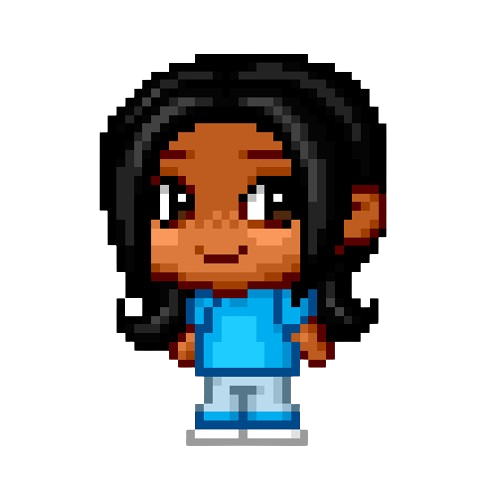
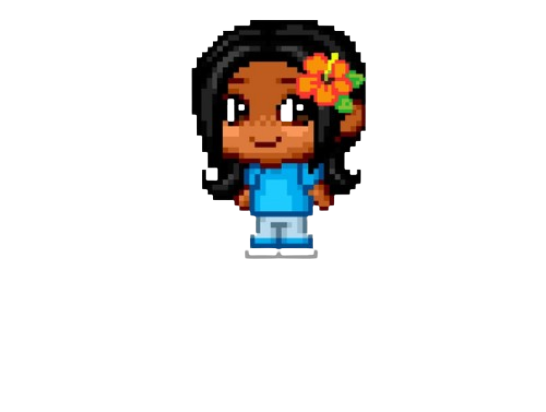
Website Reno - New Aesthetic
logo, footer, questionable color scheme, done nav

diff --git a/index.html b/index.html
@@ -5,51 +5,45 @@
     <meta charset="UTF-8">
     <meta http-equiv="X-UA-Compatible" content="IE=edge">
     <meta name="viewport" content="width=device-width, initial-scale=1.0">
-    <title>About Me</title>
+    <title>Home</title>
     <link rel="stylesheet" href="css/styles.css">
-    <link rel="preconnect" href="https://fonts.googleapis.com">
-    <link rel="preconnect" href="https://fonts.gstatic.com" crossorigin>
-    <link
-        href="https://fonts.googleapis.com/css2?family=Abril+Fatface&family=Playfair+Display:ital,wght@0,400..900;1,400..900&family=Shrikhand&display=swap"
-        rel="stylesheet">
 
-    <link rel="preconnect" href="https://fonts.googleapis.com">
-    <link rel="preconnect" href="https://fonts.gstatic.com" crossorigin>
-    <link
-        href="https://fonts.googleapis.com/css2?family=Abril+Fatface&family=Playfair+Display:ital,wght@0,400..900;1,400..900&family=Shrikhand&display=swap"
-        rel="stylesheet">
+
+<link rel="preconnect" href="https://fonts.googleapis.com">
+<link rel="preconnect" href="https://fonts.gstatic.com" crossorigin>
+<link href="https://fonts.googleapis.com/css2?family=Poppins:ital,wght@0,100;0,200;0,300;0,400;0,500;0,600;0,700;0,800;0,900;1,100;1,200;1,300;1,400;1,500;1,600;1,700;1,800;1,900&family=Roboto:ital,wght@0,100;0,300;0,400;0,500;0,700;0,900;1,100;1,300;1,400;1,500;1,700;1,900&family=Rubik:ital,wght@0,300..900;1,300..900&family=Zen+Dots&display=swap" rel="stylesheet">
 </head>
 
 <body>
 
-    <nav>
-        <ul id="links">
-            <li><a href="index.html">Home</a></li>
-            <li><a href="projects.html">My Projects</a></li>
-            <li><a href="taekwondo.html">My Taekwondo Life</a></li>
-        </ul>
-    </nav>
-    
-    <svg viewBox="0 0 200 200" xmlns="http://www.w3.org/2000/svg" id="navSVG">
-        <path fill="#9b87e1" d="M22.7,-31.1C35.1,-32.2,54.7,-37.5,59.5,-33C64.4,-28.6,54.5,-14.3,56.4,1.1C58.4,16.5,72.2,33.1,67.9,38.5C63.6,44,41.2,38.3,26.9,34.3C12.6,30.2,6.3,27.7,-0.5,28.7C-7.4,29.6,-14.7,34,-27.1,36.9C-39.4,39.8,-56.7,41.3,-61.7,34.9C-66.6,28.5,-59.2,14.3,-51,4.7C-42.9,-4.9,-34.1,-9.8,-29.8,-17.2C-25.5,-24.7,-25.7,-34.8,-21.5,-38.4C-17.3,-42.1,-8.6,-39.3,-1.7,-36.3C5.2,-33.3,10.3,-30.1,22.7,-31.1Z" transform="translate(100 100)" />
-      </svg>
+    <header>
+        <img src="images/logoFr.png" alt="My logo" id="logo">
+        <nav>
+            <a href="index.html">Home</a>
+            <a href="aboutMe.html">About Me</a>
+            <a href="projects.html">My Projects</a>
+            <a href="taekwondo.html">My Taekwondo Life</a>
+        </nav>
+    </header>
 
+    <main>
+        <img src="images/beach.jpg" alt="" id="hero">
+        <div id="intro">
+            <h1>Hello!</h1>
+            <h1>I'm Keerthana.</h1>
+            <p>Welcome to my website! Look around to learn a little about me.</p>
+        </div>
+       
+    </main>
 
-
-    <div>
-
-        <div>
-            <h1 id="welcome">Welcome!</h1>
-            <svg viewBox="0 0 200 200" xmlns="http://www.w3.org/2000/svg" id="heroSVG">
-                <path fill="#9b87e1"
-                    d="M23.6,-45.2C27.5,-38.6,25.5,-26.1,33.7,-17.5C42,-9,60.6,-4.5,69.9,5.4C79.2,15.3,79.2,30.5,71.1,39.2C62.9,47.9,46.5,49.9,33.2,50.9C20,51.9,10,51.8,-0.8,53.3C-11.7,54.7,-23.4,57.8,-35.2,55.9C-47,54.1,-58.9,47.5,-60.6,37.4C-62.4,27.2,-54,13.6,-54,0C-53.9,-13.5,-62.1,-27.1,-60,-36.6C-57.9,-46.2,-45.6,-51.9,-33.9,-54.1C-22.1,-56.2,-11.1,-54.9,-0.6,-53.9C9.8,-52.8,19.7,-51.9,23.6,-45.2Z"
-                    transform="translate(100 100)" />
-            </svg>
+    <footer>
+        <p>Contact Me!</p>
+        <div id="signature">
+            <p>&copy; Keerthana K</p>
+            <img src="images/miniMe.png" alt="" id="avatar">
         </div>
 
-    </div>
-
-
+    </footer>
 </body>
 
 </html>

diff --git a/aboutMe.html b/aboutMe.html
@@ -7,40 +7,40 @@
     <meta name="viewport" content="width=device-width, initial-scale=1.0">
     <title>About Me</title>
     <link rel="stylesheet" href="css/styles.css">
-    <link rel="preconnect" href="https://fonts.googleapis.com">
-    <link rel="preconnect" href="https://fonts.gstatic.com" crossorigin>
-    <link href="https://fonts.googleapis.com/css2?family=Abril+Fatface&family=Playfair+Display:ital,wght@0,400..900;1,400..900&family=Shrikhand&display=swap" rel="stylesheet">
 
     <link rel="preconnect" href="https://fonts.googleapis.com">
     <link rel="preconnect" href="https://fonts.gstatic.com" crossorigin>
-    <link href="https://fonts.googleapis.com/css2?family=Abril+Fatface&family=Playfair+Display:ital,wght@0,400..900;1,400..900&family=Shrikhand&display=swap" rel="stylesheet">
+    <link href="https://fonts.googleapis.com/css2?family=Poppins:ital,wght@0,100;0,200;0,300;0,400;0,500;0,600;0,700;0,800;0,900;1,100;1,200;1,300;1,400;1,500;1,600;1,700;1,800;1,900&family=Roboto:ital,wght@0,100;0,300;0,400;0,500;0,700;0,900;1,100;1,300;1,400;1,500;1,700;1,900&family=Rubik:ital,wght@0,300..900;1,300..900&family=Zen+Dots&display=swap" rel="stylesheet">
 </head>
 
 <body>
 
-    <nav>
-        <ul id="links">
-            <li><a href="index.html">Home</a></li>
-            <li><a href="projects.html">My Projects</a></li>
-            <li><a href="taekwondo.html">My Taekwondo Life</a></li>
-        </ul>
-    </nav>
+    <header>
+        <img src="images/logoFr.png" alt="My logo" id="logo">
+        <nav>
+            <a href="index.html">Home</a>
+            <a href="aboutMe.html">About Me</a>
+            <a href="projects.html">My Projects</a>
+            <a href="taekwondo.html">My Taekwondo Life</a>
+        </nav>
+    </header>
 
-    <svg viewBox="0 0 200 200" xmlns="http://www.w3.org/2000/svg" id="navSVG">
-        <path fill="#DF9AE4" d="M22.7,-31.1C35.1,-32.2,54.7,-37.5,59.5,-33C64.4,-28.6,54.5,-14.3,56.4,1.1C58.4,16.5,72.2,33.1,67.9,38.5C63.6,44,41.2,38.3,26.9,34.3C12.6,30.2,6.3,27.7,-0.5,28.7C-7.4,29.6,-14.7,34,-27.1,36.9C-39.4,39.8,-56.7,41.3,-61.7,34.9C-66.6,28.5,-59.2,14.3,-51,4.7C-42.9,-4.9,-34.1,-9.8,-29.8,-17.2C-25.5,-24.7,-25.7,-34.8,-21.5,-38.4C-17.3,-42.1,-8.6,-39.3,-1.7,-36.3C5.2,-33.3,10.3,-30.1,22.7,-31.1Z" transform="translate(100 100)" />
-      </svg>
-
-    
-    <div class="main">
-        
-        <div class="intro">
+    <main>
+        <img src="images/flower.png" alt="" id="flower">
+        <div id="intro">
             <h1>about me:</h1>
-            <p>Hello! My name is Keerthana and I am a rising junior with a strong passion for computer science and biology. I look forward to combining my passions by going into the field of Computational Biology.</p>
-            <p>In my free time, I am also an avid Bharatanatyam dancer and Taekwondo martial artist. I also enjoy reading and spending time with my family and friends. Currently, I am reading Emma by Jane Austen. Y</p>
+            <p>Hello! My name is Keerthana and I am a rising junior with a strong passion for Computer Science and Biology. I look forward to combining my passions by going into the field of Computational Biology.</p>
+            <p>In my free time, I am also an avid Bharatanatyam dancer and Taekwondo martial artist. I also enjoy reading and spending time with my family and friends. Currently, I am reading Emma by Jane Austen. </p>
         </div>
-        
-    </div>
-
+    </main>
+        <footer>
+            <p>Contact Me!</p>
+            <div id="signature">
+                <p>&copy; Keerthana K</p>
+                <img src="images/miniMe.png" alt="" id="avatar">
+            </div>
+    
+        </footer>
     
 </body>
 

diff --git a/css/styles.css b/css/styles.css
@@ -1,86 +1,92 @@
 /* All pages styles */
 
 body {
-    background-color: #b2a5e3;
+    background-color: #fffad7;
+    font-family: "Poppins";
 }
 
 h1{
-    font-family: "Shrikhand", serif;
+    font-family:"Rubik";
 }
 
 header{
     display: flex;
     flex-direction: row;
 }
+
+/* Nav Bar Styles */
+header{
+    background-color: #fff8c2;
+    display:flex;
+    flex-direction: row;
+}
+#logo{
+    width: 10%;
+    float: left;
+    margin-left: 2%;
+}
+
 nav {
-
-    position: absolute;
-    left: 62%;
-    z-index: 10; 
-    padding: 10px;
-    width: 30%;
+    display:flex;
+    flex-direction: row;
+    justify-content: flex-end;
+    align-items: center;
+    width: 100%;
+    vertical-align: center;
 }
 
-nav ul {
+nav a {
     list-style: none;
-    margin: 0;
-    padding: 0;
     display: flex;
-}
-
-nav li{
-    padding-right: 0;
-    padding-left: 0;
-    margin-right: 6%;
-    margin-left: 6%;
-    margin-top: 3%;
-    padding: 2%;
-    font-family: "Abril Fatface";
-
+    font-family: "Roboto";
+    border-radius: 20%;
+    padding: 3%;
+    font-family: "Poppins";
+    font-weight:bolder;
+    color: black;
+    font-size: 20px;
 }
 
 
-#navSVG {
-    position: absolute;
-    height: 100%;
-    left: 53%;
-    bottom: 50%;
-    display: block;
-    filter: drop-shadow(10px 10px 5px #4b176e80);
-    z-index: 1;
+/* Footer Styles */
 
+footer{
+    padding-top: 1%;
+    font-size: 20px;
+    background-color: #f4b87f;
+    text-align: center;
 }
 
+
+#avatar{
+    width: 10%;
+}
 /* Home Page styles */
-#heroSVG{
-    padding: 0;
-    margin: 0;
-    width: 55%;
-    top: 2%;
-    position: absolute;
-}
 
 #hero{
-    display: flex;
-    flex-direction: row;
-    width: 30%;
+    width: 1000px;
+    float: left;
+    height: 500px ;
+    margin-bottom: 10px;
+    display: block;
+    padding-right: 30px;
 }
-#welcome{
-    position: absolute;
-    top: 50%;
-    right: 63%;
-    z-index: 1;
-    font-size: 80px;
+
+#intro{
+    margin-top: 10%;
+}
+main{
+    padding: 20px;
+    overflow: hidden;
+    padding: 5%;
 }
 
 /* About Me Page styles */
+#flower{
 
-.main{
-    position: relative;
-    padding:5%;
-    margin-top: 15%;
-}
-.intro{
-    padding-top: 8%;
-
+    float: left;
+    height: 500px ;
+    margin-bottom: 10px;
+    display: block;
+    padding-right: 30px;
 }

diff --git a/projects.html b/projects.html
@@ -5,16 +5,34 @@
     <meta name="viewport" content="width=device-width, initial-scale=1.0">
     <title>My Projects</title>
     <link rel="stylesheet" href="css/styles.css">
-</head>
-<body>
-    <h1>My Projects</h1>
-    <nav>
-        <ul>
-            <li><a href="taekwondo.html">Taekwondo</a></li>
-            <li><a>Play a Fun Game!</a></li>
-            <li><a href="projects.html">Projects</a></li>
-            <li><a href="index.html">Home</a></li>
-        </ul>
-    </nav>
+    <link rel="preconnect" href="https://fonts.googleapis.com">
+    <link rel="preconnect" href="https://fonts.gstatic.com" crossorigin>
+    <link href="https://fonts.googleapis.com/css2?family=Poppins:ital,wght@0,100;0,200;0,300;0,400;0,500;0,600;0,700;0,800;0,900;1,100;1,200;1,300;1,400;1,500;1,600;1,700;1,800;1,900&family=Roboto:ital,wght@0,100;0,300;0,400;0,500;0,700;0,900;1,100;1,300;1,400;1,500;1,700;1,900&family=Rubik:ital,wght@0,300..900;1,300..900&family=Zen+Dots&display=swap" rel="stylesheet">
+    </head>
+    
+    <body>
+    
+        <header>
+            <img src="images/logoFr.png" alt="My logo" id="logo">
+            <nav>
+                <a href="index.html">Home</a>
+                <a href="aboutMe.html">About Me</a>
+                <a href="projects.html">My Projects</a>
+                <a href="taekwondo.html">My Taekwondo Life</a>
+            </nav>
+        </header>
+    
+        <main>
+
+        </main>
+    
+        <footer>
+            <p>Contact Me!</p>
+            <div id="signature">
+                <p>&copy; Keerthana K</p>
+                <img src="images/miniMe.png" alt="" id="avatar">
+            </div>
+    
+        </footer>
 </body>
 </html>

diff --git a/taekwondo.html b/taekwondo.html
@@ -4,9 +4,36 @@
     <meta charset="UTF-8">
     <meta name="viewport" content="width=device-width, initial-scale=1.0">
     <title>My Taekwondo Career</title>
-</head>
-<body>
-    <p>hihihih</p>
-    <a href="https://taekwondoamerica.org/student-resources/"> Student Resources</a>
+    <link rel="stylesheet" href="css/styles.css">
+
+    <link rel="preconnect" href="https://fonts.googleapis.com">
+    <link rel="preconnect" href="https://fonts.gstatic.com" crossorigin>
+    <link href="https://fonts.googleapis.com/css2?family=Poppins:ital,wght@0,100;0,200;0,300;0,400;0,500;0,600;0,700;0,800;0,900;1,100;1,200;1,300;1,400;1,500;1,600;1,700;1,800;1,900&family=Roboto:ital,wght@0,100;0,300;0,400;0,500;0,700;0,900;1,100;1,300;1,400;1,500;1,700;1,900&family=Rubik:ital,wght@0,300..900;1,300..900&family=Zen+Dots&display=swap" rel="stylesheet">
+    </head>
+    
+    <body>
+    
+        <header>
+            <img src="images/logoFr.png" alt="My logo" id="logo">
+            <nav>
+                <a href="index.html">Home</a>
+                <a href="aboutMe.html">About Me</a>
+                <a href="projects.html">My Projects</a>
+                <a href="taekwondo.html">My Taekwondo Life</a>
+            </nav>
+        </header>
+    
+        <main>
+            
+        </main>
+    
+        <footer>
+            <p>Contact Me!</p>
+            <div id="signature">
+                <p>&copy; Keerthana K</p>
+                <img src="images/miniMe.png" alt="" id="avatar">
+            </div>
+    
+        </footer>
 </body>
 </html>
